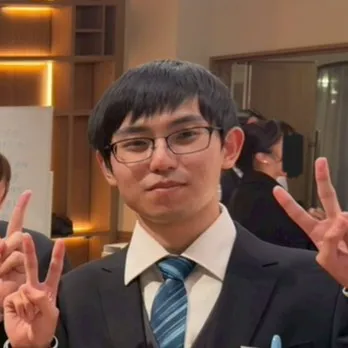
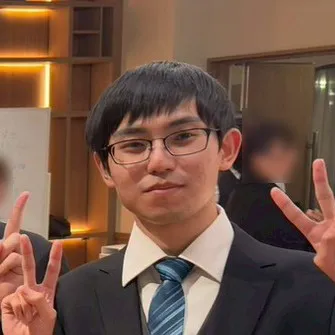
メインページの顔写真などの微修正

diff --git a/index.html b/index.html
@@ -541,7 +541,7 @@
   <!-- フッター -->
   <footer>
     <small>
-      最終更新日: 2026/09/22<br>
+      最終更新日: 2026/10/25<br>
       随時更新中<br>
       <br>
       ©2025-2026 Kurosawa Reo Portfolio

diff --git a/css/main_page.css b/css/main_page.css
@@ -669,6 +669,10 @@
   .profile-appeal .item {
     min-height: auto;
   }
+
+  .profile-stack-grid {
+    grid-template-columns: 1fr;
+  }
 }
 
 @media (max-width: 420px) {
